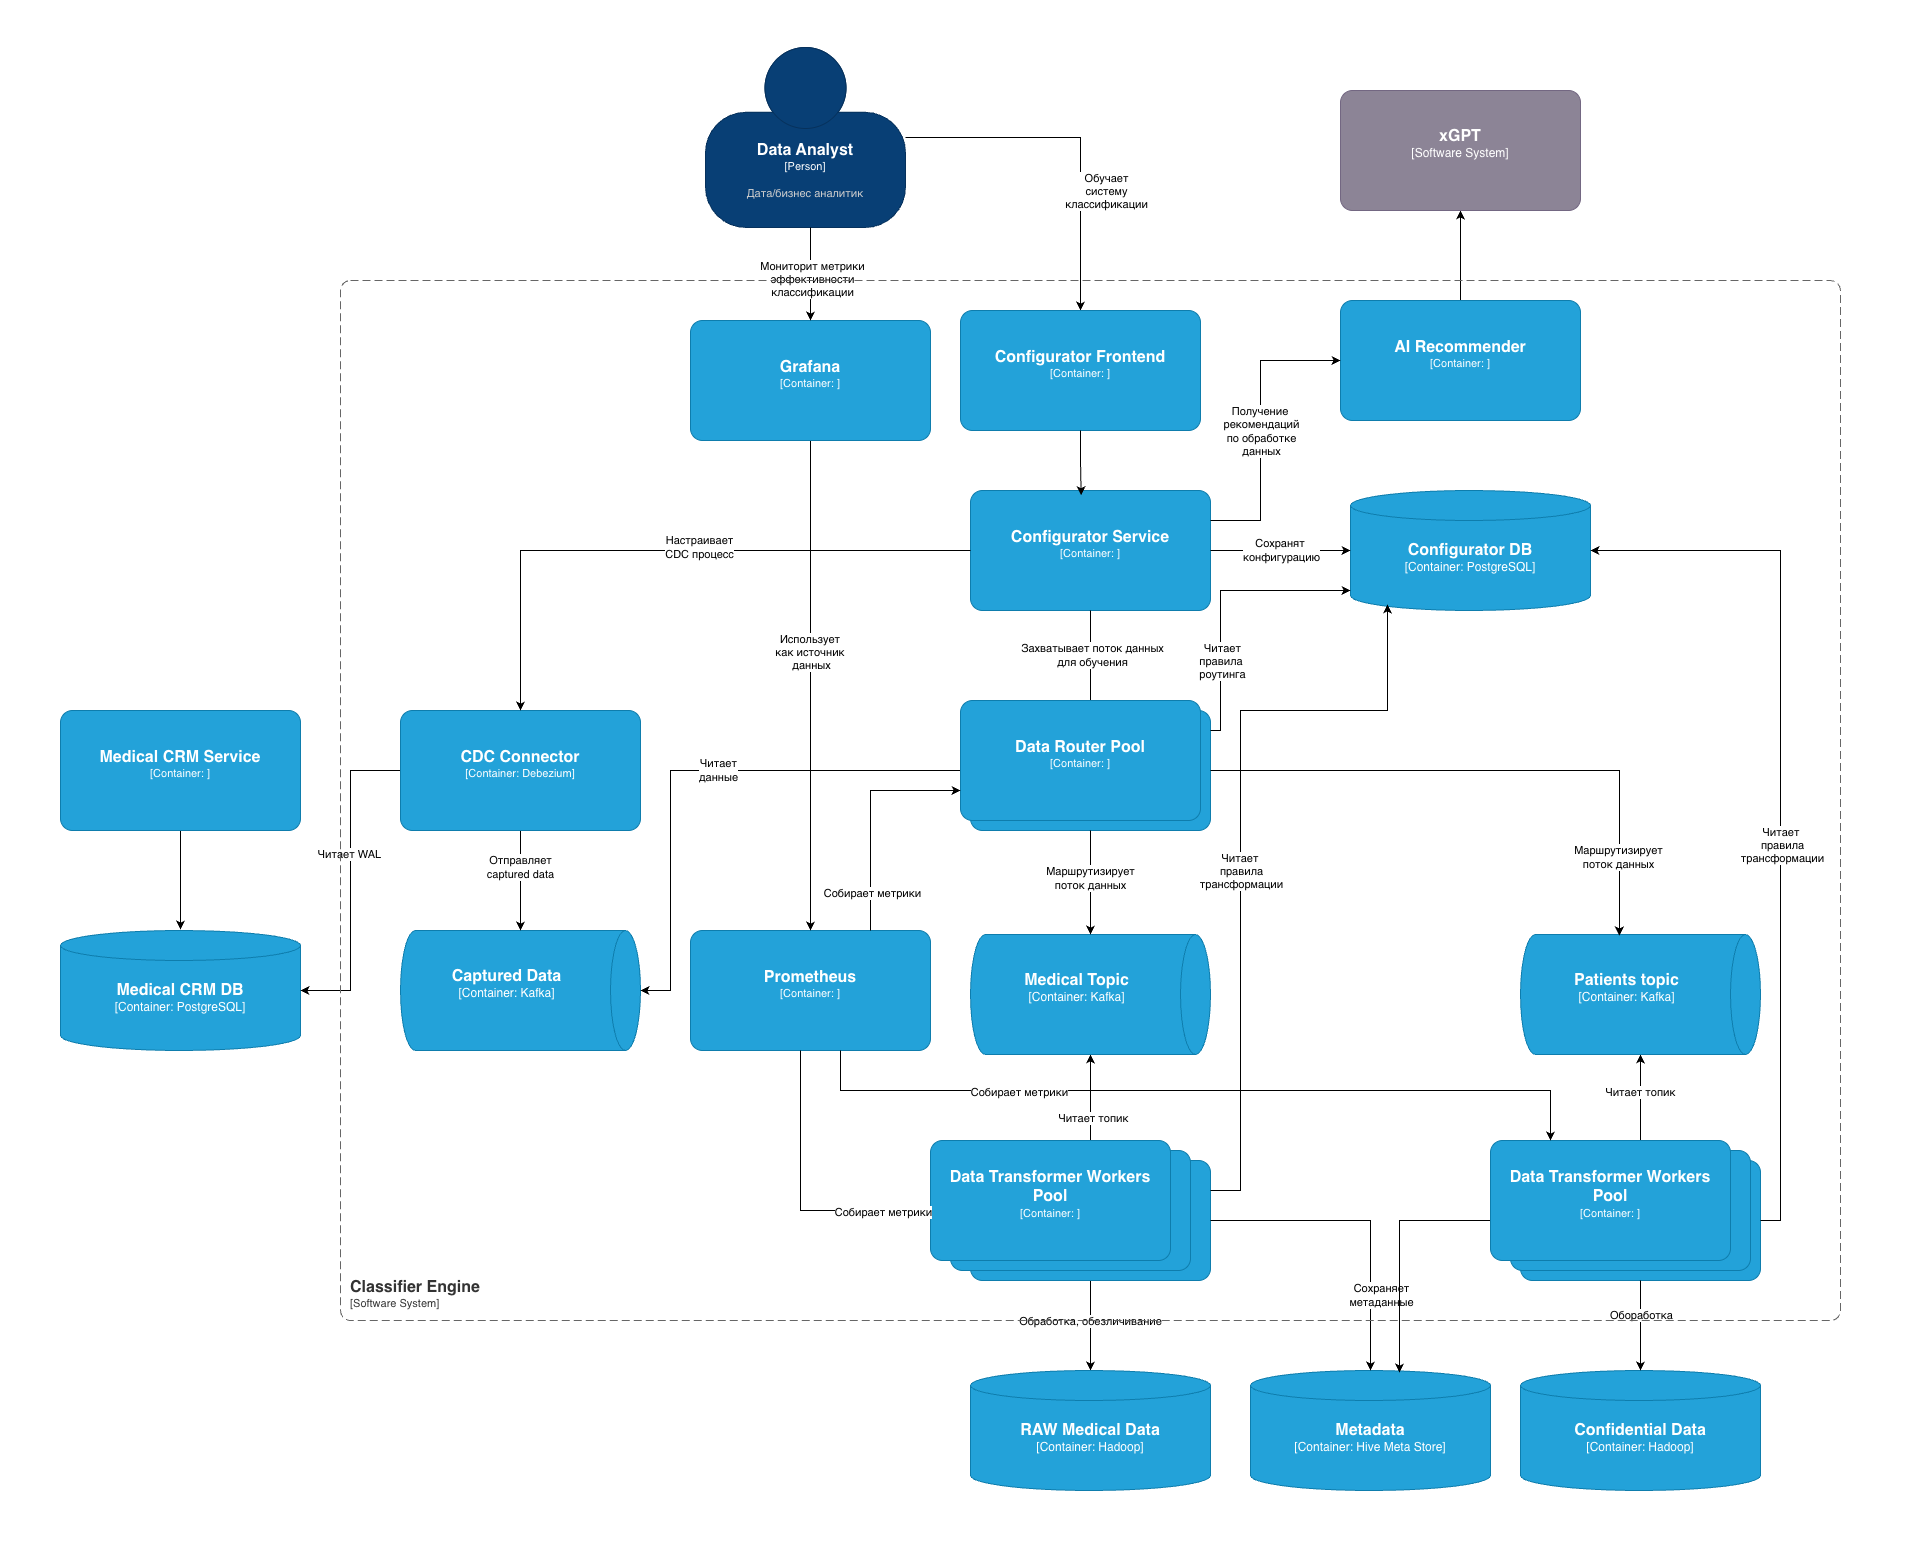
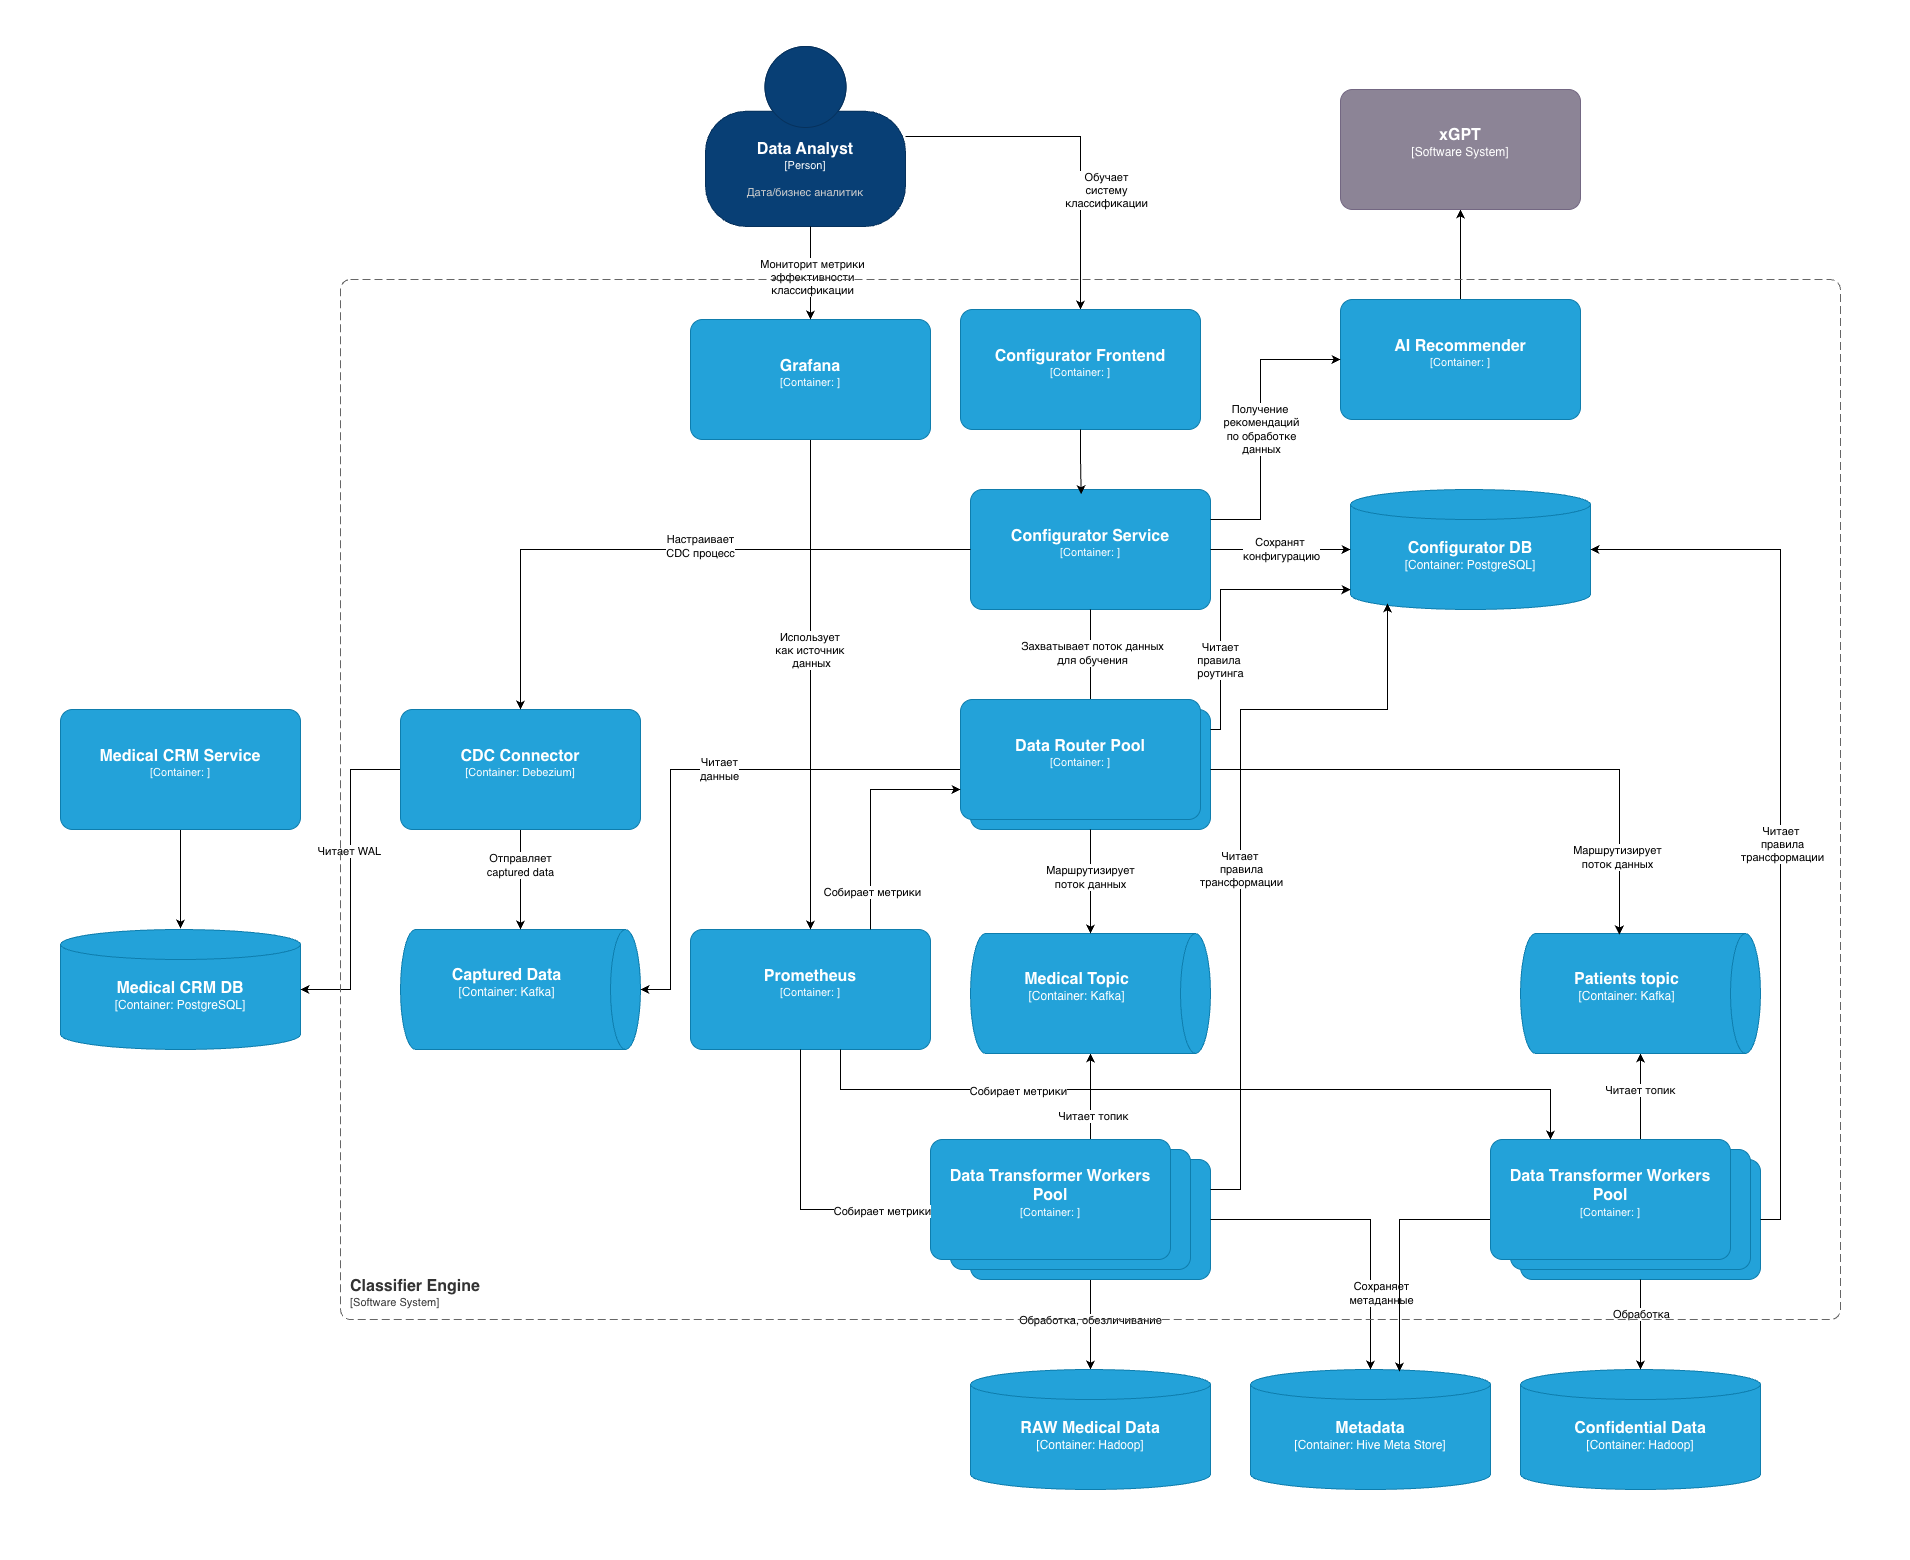
Chore

diff --git a/task1/DECISION.md b/task1/DECISION.md
@@ -163,7 +163,7 @@
 
 ## Механизм тегирования данных
 
-Предпочтительно использование стандартного функционала уже сертифицированных в соотвтетсвии с закондательством решений. Например, программа «1С:Зарплата и управление персоналом» соответствует требованиям Федерального закона от 27 июля 2006 года №152-ФЗ «О защите персональных данных».
+Предпочтительно использование стандартного функционала уже сертифицированных в соответствии с законодательством решений. Например, программа «1С:Зарплата и управление персоналом» соответствует требованиям Федерального закона от 27 июля 2006 года №152-ФЗ «О защите персональных данных».
 
 При самостоятельной разработке систем, механизм тегирования должен соответствовать следующим требованиям:
 1. Присвоение тегов уже на этапе проектрирования структуры БД:

diff --git a/task6/DECISION.md b/task6/DECISION.md
@@ -38,10 +38,12 @@
 
 *Подумать о том, как будет обеспечена scalability системы и как вы планируете расширить систему при увеличении объёма данных или количества пользователей.*
 
+Apache Kafka отлично масштабируется, поэтому используем ее.
+
 Рекомендуется использовать Kubernetes в качестве платформы для Сlassifier Engine.
 В этом случае будет обеспечена масштабируемость следующих компонент движка:
 - Data Router -> Data Routers Pool
 - Data Transformer -> Data Transformers Pool (каждого типа).
 
-Используя функционал кастомных метрик можно настроить Horizontal Pod Autoscaler для указанных масштабируемых компонентов.
+Используя функционал кастомных метрик, можно настроить Horizontal Pod Autoscaler для указанных масштабируемых компонентов.
 
